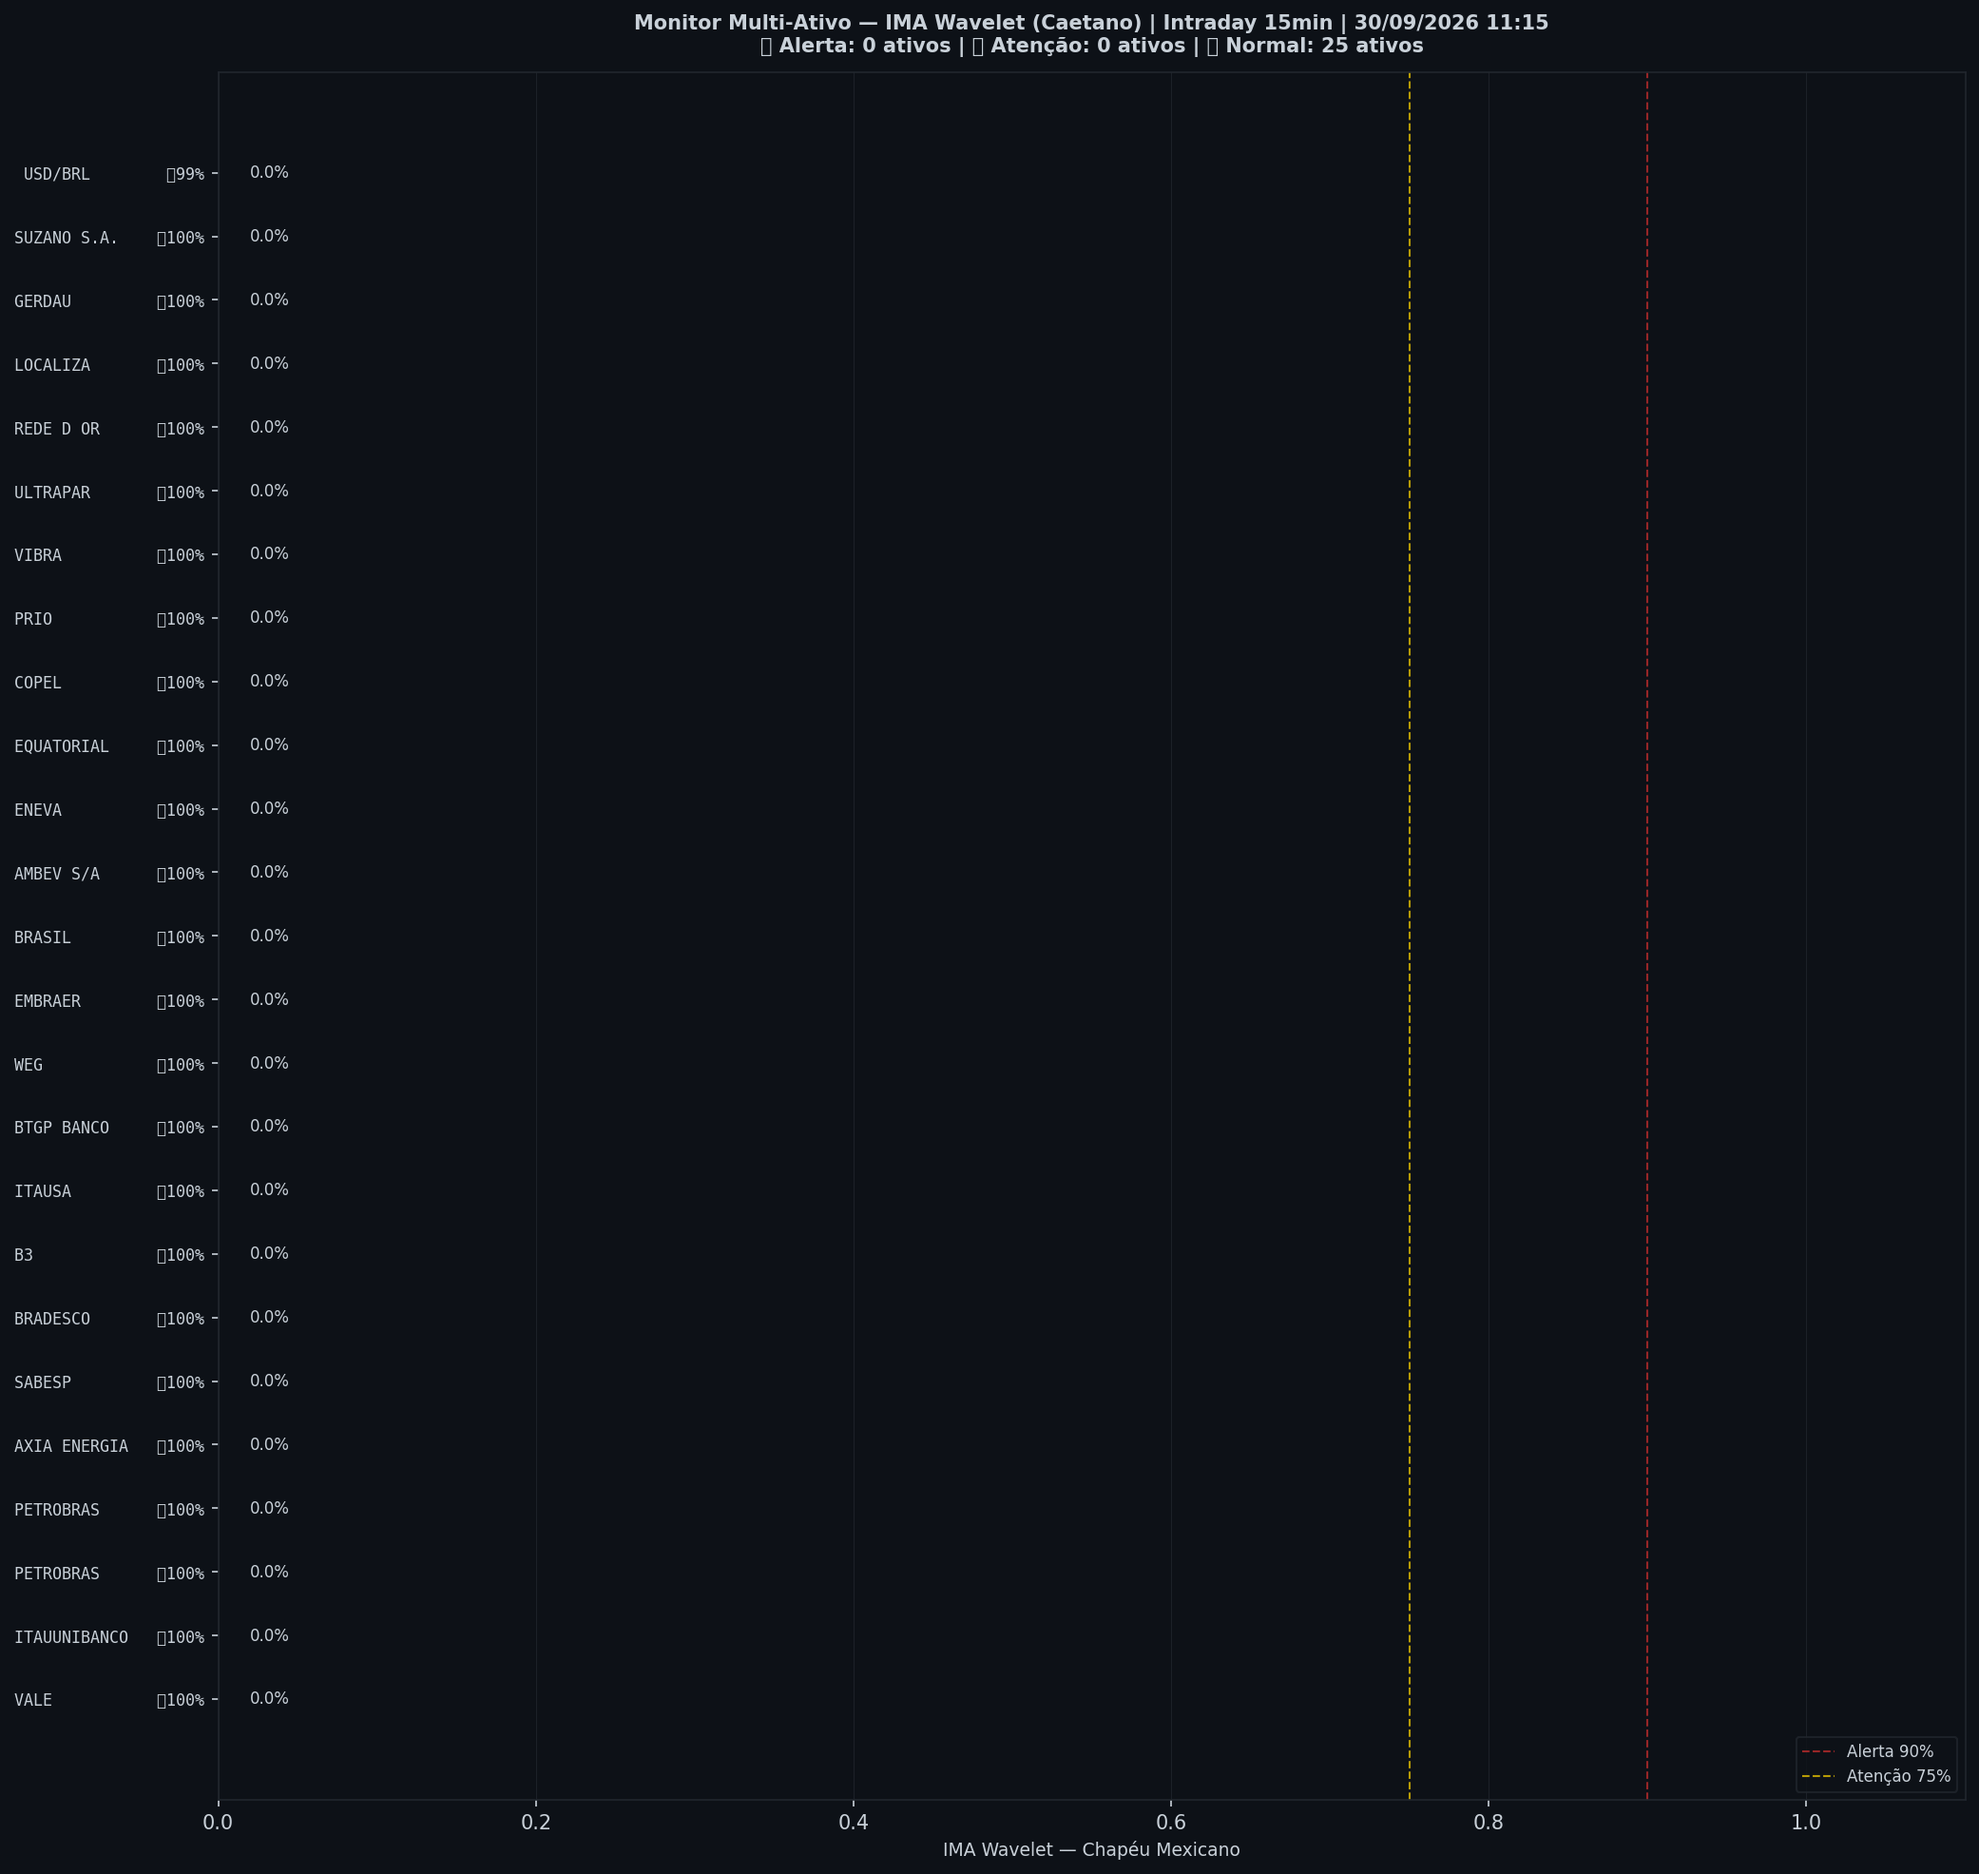
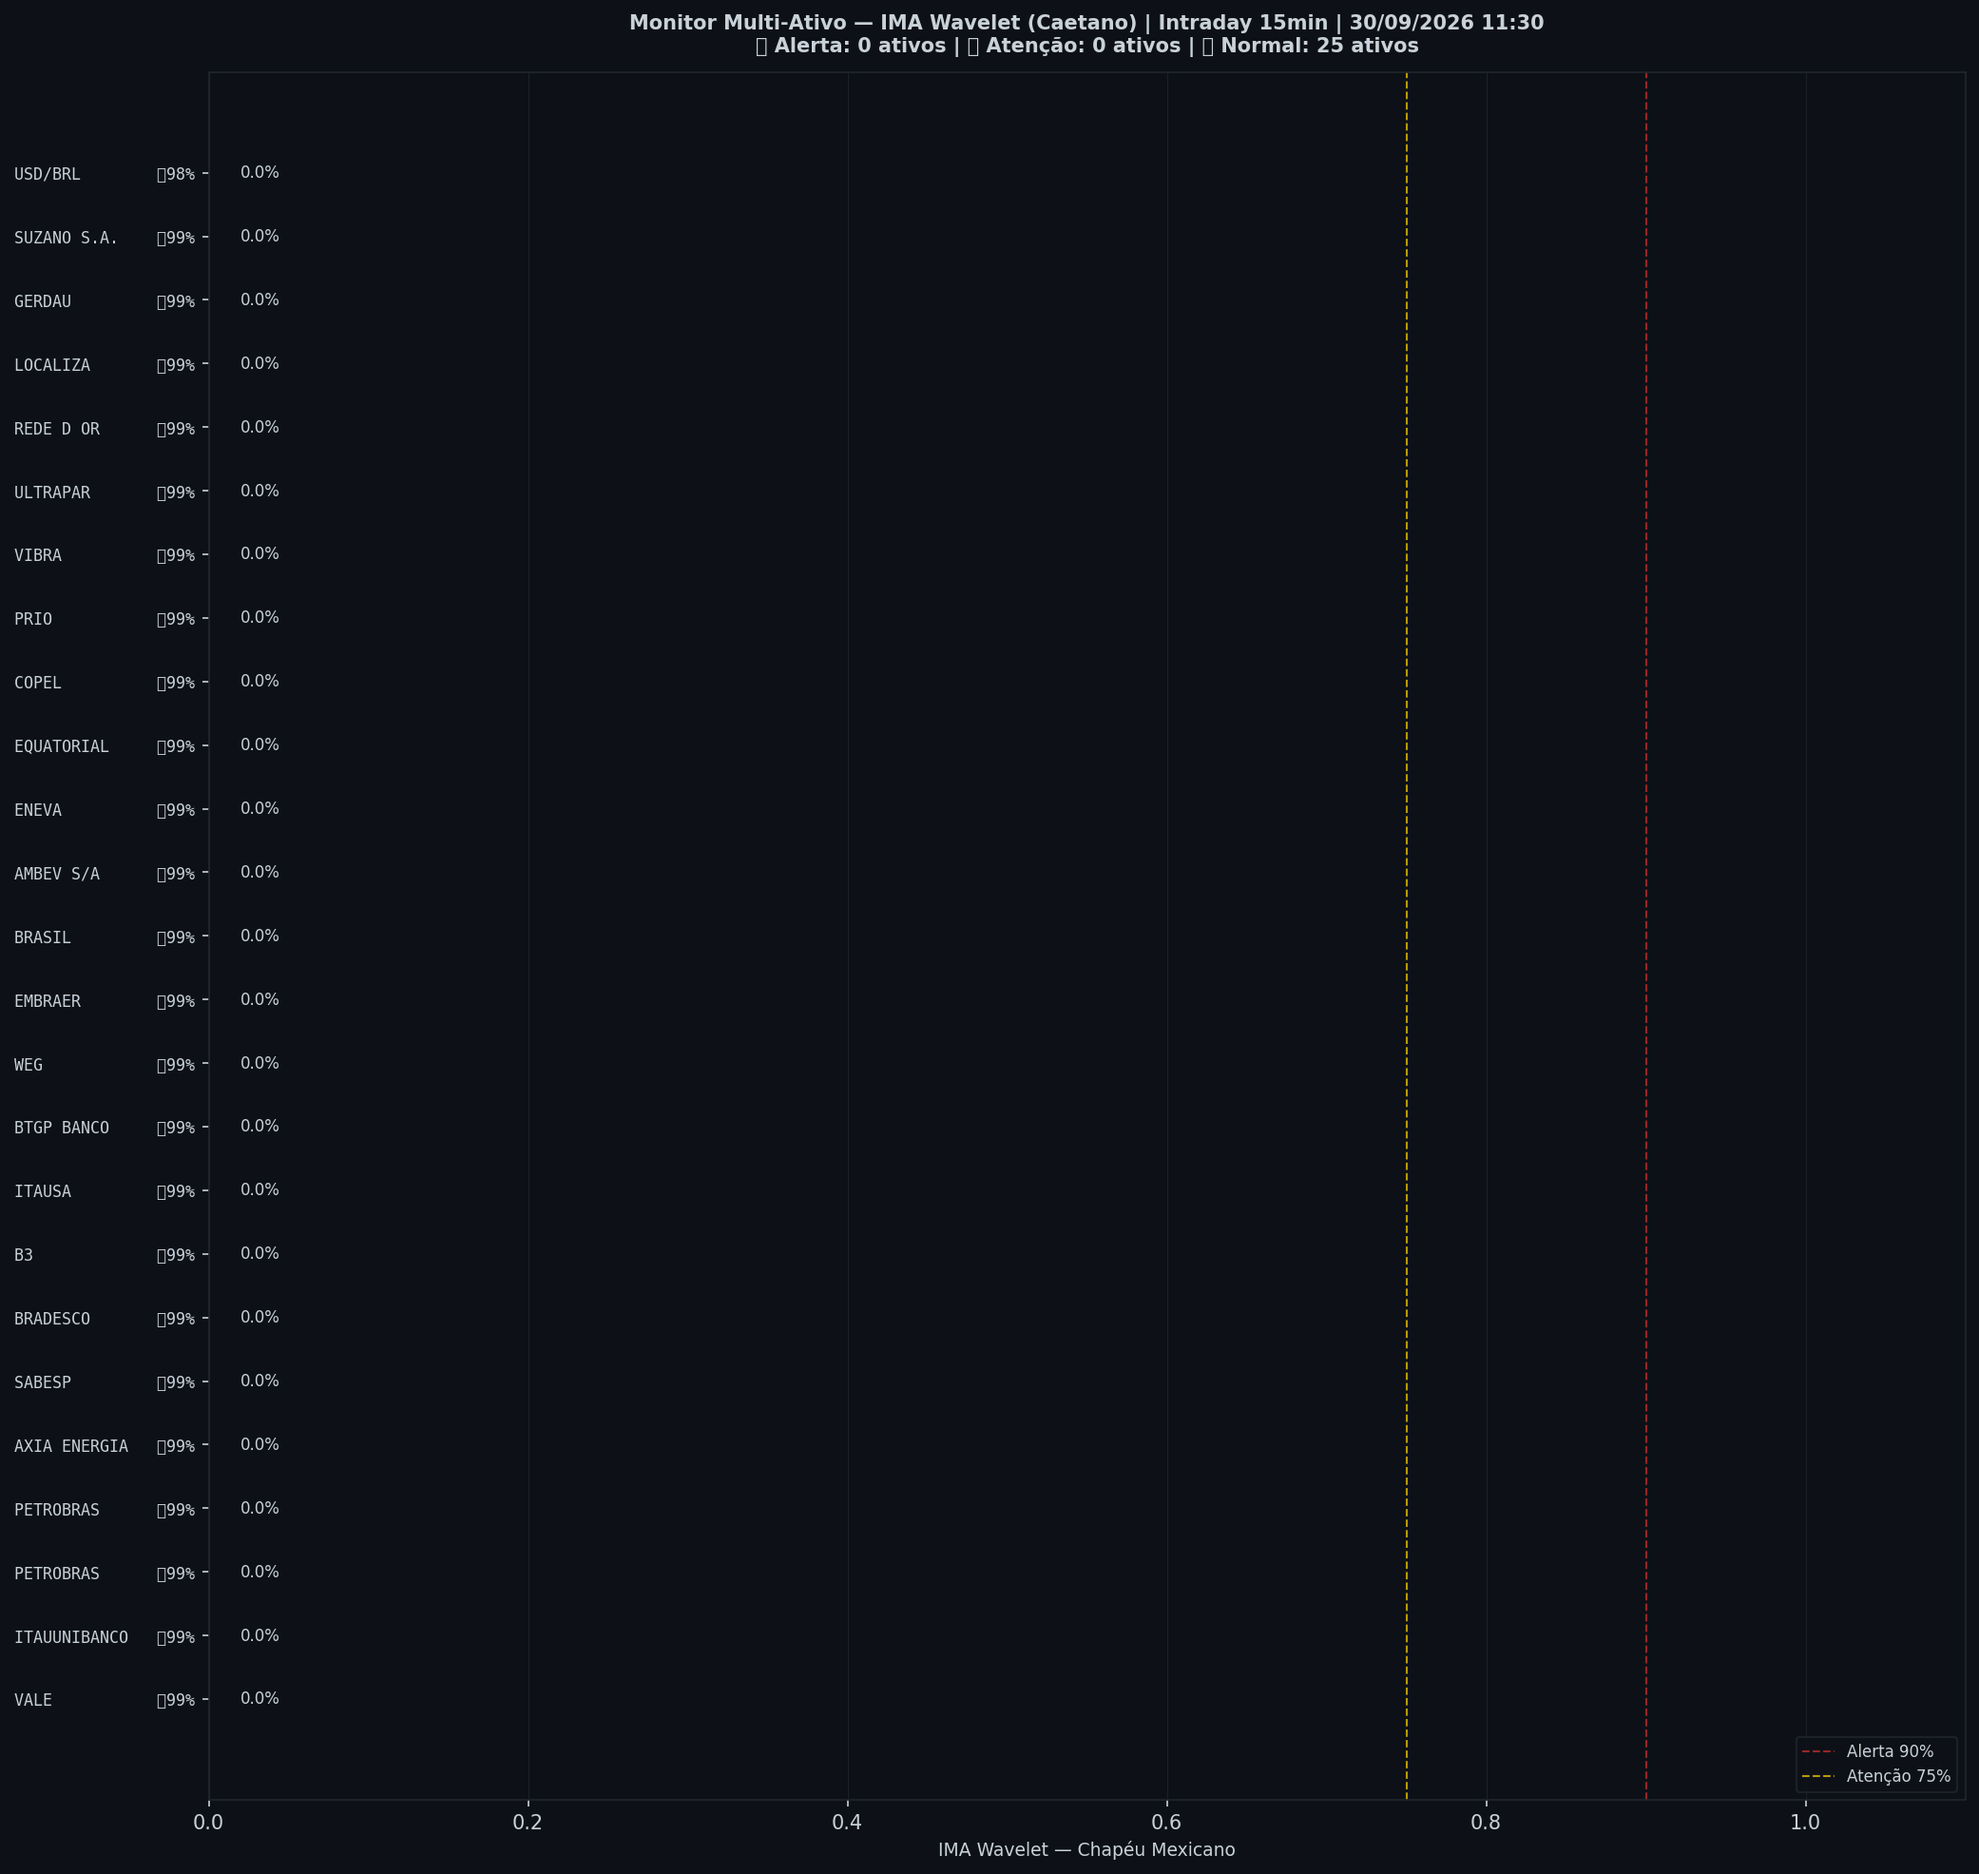
🤖 Auto: Sinal 30/09/2026 11:31

Changed region(s): [[0.3122, 0.0, 0.7805, 0.0309], [0.562, 0.9594, 0.6244, 0.9904], [0.4683, 0.9594, 0.5307, 0.9904]]

diff --git a/content/intraday/2026-09-30.md b/content/intraday/2026-09-30.md
@@ -1,20 +1,20 @@
 ---
-title: "🟢 Intraday 30/09/2026 10:30 BRT — VERDE"
+title: "🟢 Intraday 30/09/2026 10:45 BRT — VERDE"
 date: 2026-09-30
 tags: [intraday]
 ---
 
-> [!success] 🟢 **VERDE** — Risco 35% · ▲ +4 p.p. vs leitura anterior
-> `███████░░░░░░░░░░░░░`
+> [!success] 🟢 **VERDE** — Risco 40% · ▲ +5 p.p. vs leitura anterior
+> `████████░░░░░░░░░░░░`
 > Mercado sem sinais relevantes de estresse.
 
 
 | Indicador | Valor |
 |---|---|
-| 🔴 ζ Crash — severidade da queda em curso | **35%** |
-| 🔵 ζ Entrada — estrutura de fundo | 1% |
+| 🔴 ζ Crash — severidade da queda em curso | **40%** |
+| 🔵 ζ Entrada — estrutura de fundo | 0% |
 | 🫧 LPPL DS-Confidence | 0% |
-| 📊 Ibovespa | 184.818 pts |
+| 📊 Ibovespa | 185.363 pts |
 
 ![Gráfico do sinal](../graficos/sinal_intraday.png)
 
@@ -22,6 +22,7 @@ tags: [intraday]
 
 | Data | Zona | Risco | IMA Crash | Entrada | LPPL |
 |---|---|---|---|---|---|
+| 2026-09-30 10:45 | 🟢 VERDE | **40%** | 40% | 0% | 0% |
 | 2026-09-30 10:30 | 🟢 VERDE | **35%** | 35% | 1% | 0% |
 | 2026-09-30 10:15 | 🟢 VERDE | **31%** | 31% | 2% | 0% |
 | 2026-09-30 10:00 | 🟢 VERDE | **50%** | 50% | 3% | 0% |
@@ -51,7 +52,6 @@ tags: [intraday]
 | 2026-09-29 11:00 | 🟢 VERDE | **0%** | 0% | 21% | 0% |
 | 2026-09-29 10:45 | 🟢 VERDE | **0%** | 0% | 19% | 0% |
 | 2026-09-29 10:30 | 🟢 VERDE | **1%** | 1% | 12% | 0% |
-| 2026-09-29 10:15 | 🟢 VERDE | **1%** | 1% | 7% | 0% |
 
 ## Monitor Multi-Ativo
 
@@ -59,35 +59,35 @@ tags: [intraday]
 
 | Zona | Ativo | Setor | IMA Crash | IMA Entrada |
 |---|---|---|---|---|
-| 🟢 | **VALE** | Mineração | 0.0% | 100.0% |
-| 🟢 | **ITAUUNIBANCO** | Financeiro | 0.0% | 100.0% |
-| 🟢 | **PETROBRAS** | Petróleo | 0.0% | 100.0% |
-| 🟢 | **PETROBRAS** | Petróleo | 0.0% | 100.0% |
-| 🟢 | **AXIA ENERGIA** | Energia | 0.0% | 100.0% |
-| 🟢 | **SABESP** | Saneamento | 0.0% | 100.0% |
-| 🟢 | **BRADESCO** | Financeiro | 0.0% | 100.0% |
-| 🟢 | **B3** | Financeiro | 0.0% | 100.0% |
-| 🟢 | **ITAUSA** | Financeiro | 0.0% | 100.0% |
-| 🟢 | **BTGP BANCO** | Financeiro | 0.0% | 100.0% |
-| 🟢 | **WEG** | Industrial | 0.0% | 100.0% |
-| 🟢 | **EMBRAER** | Outros | 0.0% | 100.0% |
-| 🟢 | **BRASIL** | Financeiro | 0.0% | 100.0% |
-| 🟢 | **AMBEV S/A** | Consumo | 0.0% | 100.0% |
-| 🟢 | **ENEVA** | Energia | 0.0% | 100.0% |
-| 🟢 | **EQUATORIAL** | Energia | 0.0% | 100.0% |
-| 🟢 | **COPEL** | Energia | 0.0% | 100.0% |
-| 🟢 | **PRIO** | Petróleo | 0.0% | 100.0% |
-| 🟢 | **VIBRA** | Energia | 0.0% | 100.0% |
-| 🟢 | **ULTRAPAR** | Outros | 0.0% | 100.0% |
-| 🟢 | **REDE D OR** | Saúde | 0.0% | 100.0% |
-| 🟢 | **LOCALIZA** | Aluguel | 0.0% | 100.0% |
-| 🟢 | **GERDAU** | Siderurgia | 0.0% | 100.0% |
-| 🟢 | **SUZANO S.A.** | Papel/Celulose | 0.0% | 100.0% |
-| 🟢 | **USD/BRL** | Câmbio | 0.0% | 99.2% |
+| 🟢 | **VALE** | Mineração | 0.0% | 99.2% |
+| 🟢 | **ITAUUNIBANCO** | Financeiro | 0.0% | 99.2% |
+| 🟢 | **PETROBRAS** | Petróleo | 0.0% | 99.2% |
+| 🟢 | **PETROBRAS** | Petróleo | 0.0% | 99.2% |
+| 🟢 | **AXIA ENERGIA** | Energia | 0.0% | 99.2% |
+| 🟢 | **SABESP** | Saneamento | 0.0% | 99.2% |
+| 🟢 | **BRADESCO** | Financeiro | 0.0% | 99.2% |
+| 🟢 | **B3** | Financeiro | 0.0% | 99.2% |
+| 🟢 | **ITAUSA** | Financeiro | 0.0% | 99.2% |
+| 🟢 | **BTGP BANCO** | Financeiro | 0.0% | 99.2% |
+| 🟢 | **WEG** | Industrial | 0.0% | 99.2% |
+| 🟢 | **EMBRAER** | Outros | 0.0% | 99.2% |
+| 🟢 | **BRASIL** | Financeiro | 0.0% | 99.2% |
+| 🟢 | **AMBEV S/A** | Consumo | 0.0% | 99.2% |
+| 🟢 | **ENEVA** | Energia | 0.0% | 99.2% |
+| 🟢 | **EQUATORIAL** | Energia | 0.0% | 99.2% |
+| 🟢 | **COPEL** | Energia | 0.0% | 99.2% |
+| 🟢 | **PRIO** | Petróleo | 0.0% | 99.2% |
+| 🟢 | **VIBRA** | Energia | 0.0% | 99.2% |
+| 🟢 | **ULTRAPAR** | Outros | 0.0% | 99.2% |
+| 🟢 | **REDE D OR** | Saúde | 0.0% | 99.2% |
+| 🟢 | **LOCALIZA** | Aluguel | 0.0% | 99.2% |
+| 🟢 | **GERDAU** | Siderurgia | 0.0% | 99.2% |
+| 🟢 | **SUZANO S.A.** | Papel/Celulose | 0.0% | 99.2% |
+| 🟢 | **USD/BRL** | Câmbio | 0.0% | 97.7% |
 
 ![Monitor multi-ativo](../graficos/multi_intraday.png)
 
-*Página atualizada em 30/09/2026 11:16 BRT (leitura da barra de 2026-09-30 10:30 BRT).*
+*Página atualizada em 30/09/2026 11:31 BRT (leitura da barra de 2026-09-30 10:45 BRT).*
 
 > [!info]- Como interpretar (clique para expandir)
 > - **ζ Crash**: fração dos coeficientes wavelet acima do corte (Caetano & Yoneyama 2009). Escala absoluta: ζ=0,90 = 90% dos coeficientes anômalos — historicamente, quedas com ζ≥0,90 foram mais fundas e mais longas. **Mede a severidade do movimento em curso, não prevê o início da queda.**

diff --git a/content/index.md b/content/index.md
@@ -8,19 +8,19 @@ tags: [home]
 
 Monitoramento diário e intraday do Ibovespa — **IMA Wavelet** (Prof. Marco Antonio Leonel Caetano, ITA/INSPER) + **LPPL DS-Confidence** (Prof. Didier Sornette, ETH-Zurich).
 
-*Última atualização: 30/09/2026 11:16 BRT · ^BVSP · Intraday 15min · v4*
+*Última atualização: 30/09/2026 11:31 BRT · ^BVSP · Intraday 15min · v4*
 
-> [!success] 🟢 **VERDE** — Risco 35% · ▲ +4 p.p. vs leitura anterior
-> `███████░░░░░░░░░░░░░`
+> [!success] 🟢 **VERDE** — Risco 40% · ▲ +5 p.p. vs leitura anterior
+> `████████░░░░░░░░░░░░`
 > Mercado sem sinais relevantes de estresse.
 
 
 | Indicador | Valor |
 |---|---|
-| 🔴 ζ Crash — severidade da queda em curso | **35%** |
-| 🔵 ζ Entrada — estrutura de fundo | 1% |
+| 🔴 ζ Crash — severidade da queda em curso | **40%** |
+| 🔵 ζ Entrada — estrutura de fundo | 0% |
 | 🫧 LPPL DS-Confidence | 0% |
-| 📊 Ibovespa | 184.818 pts |
+| 📊 Ibovespa | 185.363 pts |
 
 **Multi-ativo:** 0% em tensão (0🔴 0🟡 de 25 ativos)
 
@@ -32,7 +32,7 @@ Monitoramento diário e intraday do Ibovespa — **IMA Wavelet** (Prof. Marco An
 
 | Data | Zona | Risco | IMA | LPPL |
 |---|---|---|---|---|
-| [30 Sep 2026](diario/2026-09-30) | 🟢 VERDE | **35%** | 35% | 0% |
+| [30 Sep 2026](diario/2026-09-30) | 🟢 VERDE | **40%** | 40% | 0% |
 | [29 Sep 2026](diario/2026-09-29) | 🟢 VERDE | **38%** | 38% | 0% |
 
 ## Navegação

diff --git a/content/historico.md b/content/historico.md
@@ -7,6 +7,7 @@ tags: [historico]
 
 | Data | Modo | Zona | Risco | IMA | LPPL |
 |---|---|---|---|---|---|
+| 2026-09-30 10:45 | intraday | 🟢 VERDE | 40% | 40% | 0% |
 | 2026-09-30 10:30 | intraday | 🟢 VERDE | 35% | 35% | 0% |
 | 2026-09-30 10:15 | intraday | 🟢 VERDE | 31% | 31% | 0% |
 | 2026-09-30 10:00 | intraday | 🟢 VERDE | 50% | 50% | 0% |
